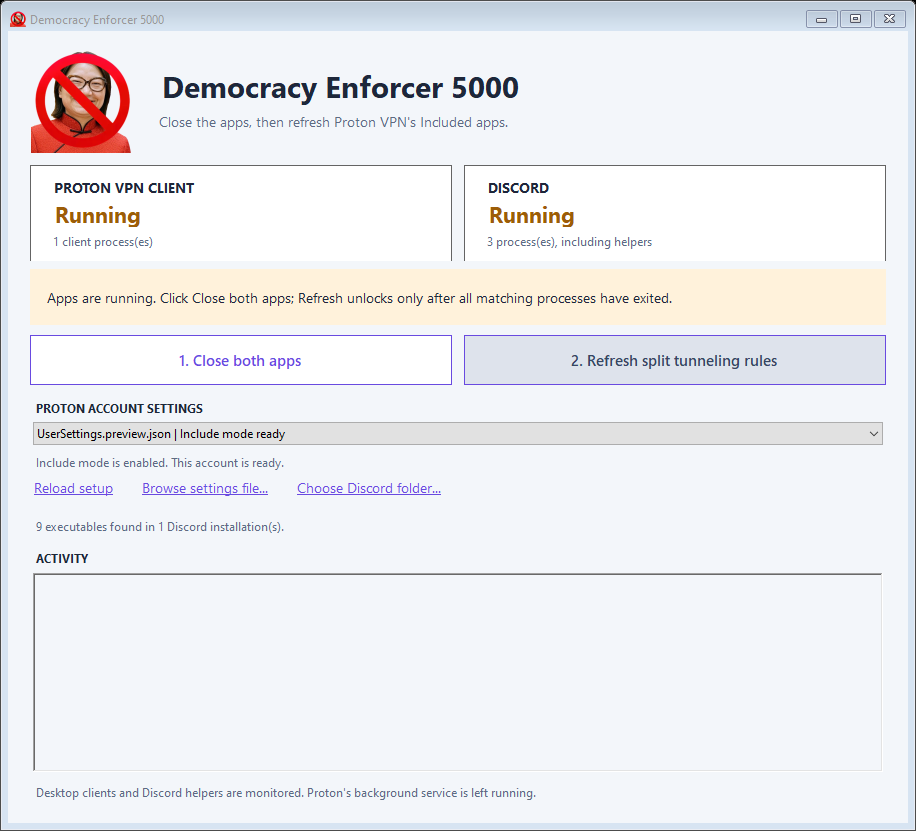
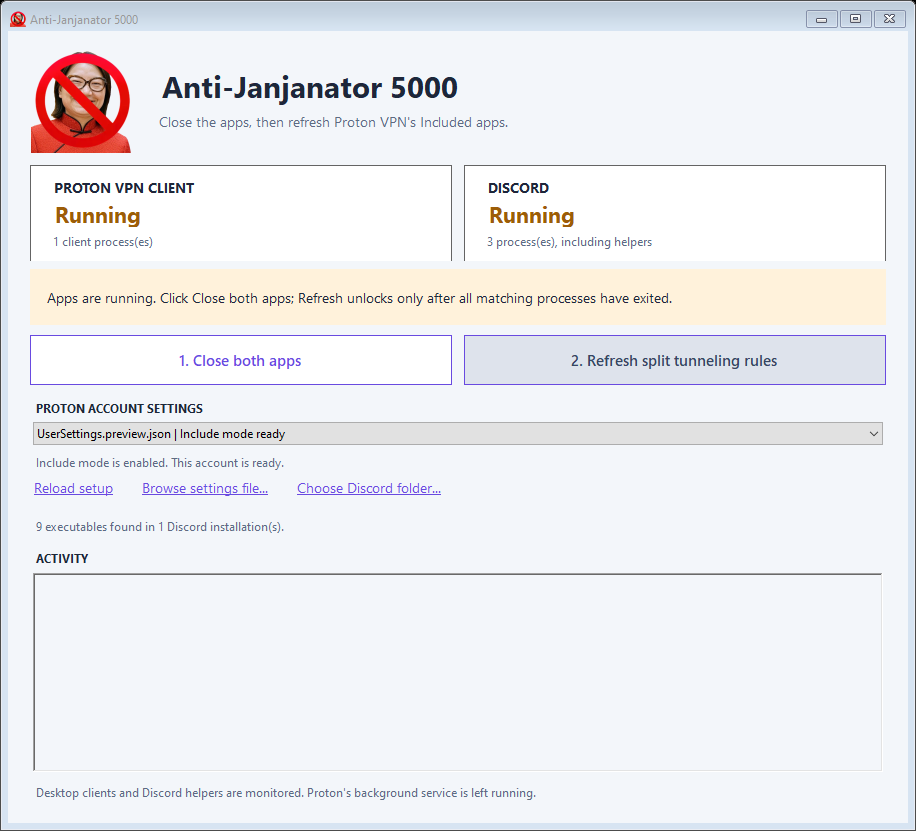
Restore the Anti-Janjanator 5000 name

Changed region(s): [[0.1834, 0.0903, 0.5808, 0.1203], [0.0306, 0.0, 0.1834, 0.0301]]

diff --git a/docs/site/index.html b/docs/site/index.html
@@ -4,21 +4,21 @@
   <meta charset="utf-8">
   <meta name="viewport" content="width=device-width, initial-scale=1">
   <meta name="theme-color" content="#f7efdf">
-  <meta name="description" content="Democracy Enforcer 5000 — a portable Windows utility that keeps Discord's executable paths current in Proton VPN's Included apps.">
+  <meta name="description" content="Anti-Janjanator 5000 — a portable Windows utility that keeps Discord's executable paths current in Proton VPN's Included apps.">
   <link rel="icon" href="assets/HeaderArtwork.png">
-  <title>Democracy Enforcer 5000 / Made with love.</title>
+  <title>Anti-Janjanator 5000 / Made with love.</title>
   <link rel="stylesheet" href="style.css">
   <script src="script.js" defer></script>
 </head>
 <body>
   <a class="skip" href="#main">Skip to content</a>
   <header class="nav wrap">
-    <a class="brand" href="#" aria-label="Democracy Enforcer 5000 home"><img class="brand-art" src="assets/HeaderArtwork.png" alt="Original application artwork"><span>DEMOCRACY ENFORCER<span class="brand-sub">5000 / NETWORK UTILITIES</span></span></a>
+    <a class="brand" href="#" aria-label="Anti-Janjanator 5000 home"><img class="brand-art" src="assets/HeaderArtwork.png" alt="Original application artwork"><span>ANTI-JANJANATOR<span class="brand-sub">5000 / NETWORK UTILITIES</span></span></a>
     <nav aria-label="Main navigation"><a href="#protocol">How it works</a><a href="#setup">Get started</a><a class="repo-link" href="https://github.com/Billy364/Anti-Janjanator-5000-repo">Source code <span aria-hidden="true">↗</span></a></nav>
   </header>
   <main id="main">
     <section id="setup" class="quick-install wrap" aria-labelledby="install-title">
-      <p class="eyebrow">GET DEMOCRACY ENFORCER 5000</p>
+      <p class="eyebrow">GET ANTI-JANJANATOR 5000</p>
       <h1 id="install-title">Open Windows PowerShell.</h1>
       <p class="install-intro">Press <kbd>Win</kbd>, type <strong>Windows PowerShell</strong>, and open it. Copy and paste this command, then press <kbd>Enter</kbd>.</p>
       <div class="build-panel">
@@ -26,7 +26,7 @@
         <pre><code id="commands">irm https://raw.githubusercontent.com/Billy364/Anti-Janjanator-5000-repo/main/install.ps1 | iex</code></pre>
         <p id="copy-status" class="copy-status" role="status" aria-live="polite"></p>
       </div>
-      <p class="install-result">This downloads and runs the setup script, clones the repo into <strong>Downloads\Democracy-Enforcer-5000</strong>, builds the app, and creates a <strong>Democracy Enforcer 5000</strong> Desktop shortcut. Click the shortcut when you’re ready to launch.</p>
+      <p class="install-result">This downloads and runs the setup script, clones the repo into <strong>Downloads\Anti-Janjanator-5000</strong>, builds the app, and creates a <strong>Anti-Janjanator 5000</strong> Desktop shortcut. Click the shortcut when you’re ready to launch.</p>
       <p class="install-requirements">Requires Git for Windows, 64-bit Windows, Windows PowerShell 5.1, and the .NET Framework 4.x compiler. No administrator window needed. <a class="text-link" href="https://github.com/Billy364/Anti-Janjanator-5000-repo/blob/main/install.ps1">Read the script ↗</a></p>
     </section>
     <section class="hero wrap">
@@ -36,11 +36,11 @@
         <p class="tagline">Because Democracy is beautiful and we should break all the rules to defend it</p>
         <p class="intro">New Discord version. New executable path. Same broken split tunneling. <strong>Put the right paths back in Proton VPN.</strong></p>
         <div class="actions"><a class="button" href="#setup">GET THE APP <span aria-hidden="true">↗</span></a><a class="text-link" href="#protocol">See how it works <span aria-hidden="true">↓</span></a></div>
-        <div class="hero-meta"><span>WINDOWS x64</span><span>PORTABLE</span><span>v13 SOURCE</span></div>
+        <div class="hero-meta"><span>WINDOWS x64</span><span>PORTABLE</span><span>v14 SOURCE</span></div>
       </div>
       <figure class="app-showcase">
-        <div class="app-label"><span class="pulse"></span> DEMOCRACY ENFORCER 5000 <span>WINDOWS / v13</span></div>
-        <a href="assets/screenshot.png" target="_blank" rel="noopener" aria-label="View full-size app screenshot"><img class="app-screenshot" src="assets/screenshot.png" alt="Democracy Enforcer 5000 Windows interface showing Proton and Discord status, Close both apps and Refresh split tunneling rules buttons, and an example Proton account." width="916" height="831"></a>
+        <div class="app-label"><span class="pulse"></span> ANTI-JANJANATOR 5000 <span>WINDOWS / v14</span></div>
+        <a href="assets/screenshot.png" target="_blank" rel="noopener" aria-label="View full-size app screenshot"><img class="app-screenshot" src="assets/screenshot.png" alt="Anti-Janjanator 5000 Windows interface showing Proton and Discord status, Close both apps and Refresh split tunneling rules buttons, and an example Proton account." width="916" height="831"></a>
         <figcaption><span>THE ACTUAL APP / EXAMPLE DATA</span><a href="assets/screenshot.png" target="_blank" rel="noopener">INSPECT FULL SIZE ↗</a></figcaption>
       </figure>
     </section>
@@ -52,6 +52,6 @@
     <section class="setup-note wrap"><span class="note-icon" aria-hidden="true">!</span><div><p class="micro">KNOW WHAT YOU’RE RUNNING</p><h3>First launch sets your Proton preferences.</h3><p>Once per Windows user, setup requests startup with Windows, auto-connect, Fastest country excluding Brazil, Proton WireGuard, and Split tunneling in Include mode. Exit Proton, select your account, then click Apply setup and open updater. Setup is required before first use and backs up changed files.</p><a class="text-link" href="https://github.com/Billy364/Anti-Janjanator-5000-repo/blob/main/docs/FIRST-LAUNCH.md">Read the first-launch details ↗</a></div></section>
     <section class="fine-print wrap"><p><span class="green">// TRANSPARENCY</span> Unofficial utility. Builds are unsigned. Synthetic tests cover settings preservation and process guards; they do not verify live VPN traffic routing. Proton controls feature availability.</p><a href="https://github.com/Billy364/Anti-Janjanator-5000-repo/blob/main/docs/USER-GUIDE.md">USER GUIDE ↗</a></section>
   </main>
-  <footer class="wrap"><a class="footer-brand" href="#">DEMOCRACY ENFORCER <span class="green">5000</span></a><span>MADE WITH LOVE. FOR DEMOCRACY.</span><a href="https://github.com/Billy364/Anti-Janjanator-5000-repo">GITHUB ↗</a></footer>
+  <footer class="wrap"><a class="footer-brand" href="#">ANTI-JANJANATOR <span class="green">5000</span></a><span>MADE WITH LOVE. FOR DEMOCRACY.</span><a href="https://github.com/Billy364/Anti-Janjanator-5000-repo">GITHUB ↗</a></footer>
 </body>
 </html>

diff --git a/tests/HeaderPreview.cs b/tests/HeaderPreview.cs
@@ -25,7 +25,7 @@ class HeaderPreview
     static Label FindHeading(Control control)
     {
         Label label = control as Label;
-        if (label != null && label.Text == "Democracy Enforcer 5000") return label;
+        if (label != null && label.Text == "Anti-Janjanator 5000") return label;
         foreach (Control child in control.Controls) { Label found = FindHeading(child); if (found != null) return found; }
         return null;
     }
@@ -45,7 +45,7 @@ class HeaderPreview
             FieldInfo field = typeof(UpdaterForm).GetField("trayIcon", BindingFlags.NonPublic | BindingFlags.Instance);
             NotifyIcon tray = (NotifyIcon)field.GetValue(form);
             if (tray == null || tray.Icon == null || !tray.Visible || tray.ContextMenuStrip.Items.Count != 3) throw new Exception("Tray icon/menu incomplete.");
-            if (form.Text != "Democracy Enforcer 5000" || tray.Text != form.Text || tray.ContextMenuStrip.Items[0].Text != "Open " + form.Text) throw new Exception("App name mismatch.");
+            if (form.Text != "Anti-Janjanator 5000" || tray.Text != form.Text || tray.ContextMenuStrip.Items[0].Text != "Open " + form.Text) throw new Exception("App name mismatch.");
             Label heading = FindHeading(form);
             if (heading == null || TextRenderer.MeasureText(heading.Text, heading.Font).Width > heading.ClientSize.Width) throw new Exception("Header name missing or clipped.");
             using (Bitmap preview = new Bitmap(form.Width, form.Height))

diff --git a/src/UpdaterWindow.cs b/src/UpdaterWindow.cs
@@ -10,17 +10,17 @@ using System.Runtime.InteropServices;
 using System.Web.Script.Serialization;
 using System.Windows.Forms;
 
-[assembly: System.Reflection.AssemblyTitle("Democracy Enforcer 5000")]
-[assembly: System.Reflection.AssemblyProduct("Democracy Enforcer 5000")]
+[assembly: System.Reflection.AssemblyTitle("Anti-Janjanator 5000")]
+[assembly: System.Reflection.AssemblyProduct("Anti-Janjanator 5000")]
 [assembly: System.Reflection.AssemblyDescription("Discord rules updater for Proton VPN split tunneling")]
-[assembly: System.Reflection.AssemblyVersion("13.0.0.0")]
-[assembly: System.Reflection.AssemblyFileVersion("13.0.0.0")]
+[assembly: System.Reflection.AssemblyVersion("14.0.0.0")]
+[assembly: System.Reflection.AssemblyFileVersion("14.0.0.0")]
 
 namespace DiscordProtonUpdater
 {
     public static class AppIdentity
     {
-        public const string Name = "Democracy Enforcer 5000";
+        public const string Name = "Anti-Janjanator 5000";
     }
 
     public sealed class AccountInfo

diff --git a/README.md b/README.md
@@ -1,9 +1,9 @@
-# Democracy Enforcer 5000
+# Anti-Janjanator 5000
 
 A portable Windows app that refreshes Discord executable paths in Proton VPN's
 Split Tunneling **Included apps** after Discord updates.
 
-![Democracy Enforcer 5000 interface with example data](docs/screenshot.png)
+![Anti-Janjanator 5000 interface with example data](docs/screenshot.png)
 
 The app monitors Discord and the Proton VPN desktop client. Use **Close both
 apps**, then **Refresh split tunneling rules** once both have exited. Select
@@ -53,13 +53,15 @@ irm https://raw.githubusercontent.com/Billy364/Anti-Janjanator-5000-repo/main/in
 ```
 
 This downloads and executes the bootstrap script. It clones into
-`Downloads\Democracy-Enforcer-5000` (using Windows' configured Downloads folder), builds using Windows
-PowerShell 5.1 and .NET Framework, and creates **Democracy Enforcer 5000** on your Desktop (including a redirected/OneDrive Desktop). Open the
+`Downloads\Anti-Janjanator-5000` (using Windows' configured Downloads folder), builds using Windows
+PowerShell 5.1 and .NET Framework, and creates **Anti-Janjanator 5000** on your Desktop (including a redirected/OneDrive Desktop). Open the
 shortcut to launch the EXE when ready. The bootstrap does not launch the app,
 modify Proton settings, request administrator access, or change machine-wide
 execution policy. First launch of the app still performs the setup described above.
 
-Rerunning fast-forwards a clean installation checkout and rebuilds it; local
+Rerunning fast-forwards a clean installation checkout and rebuilds it. If the
+previously named Downloads checkout is the only one present, the installer
+updates it in place and creates the renamed Desktop shortcut. Local
 changes, a different origin/branch, or divergent history stop the update.
 Close a running copy before rebuilding. Git and the .NET compiler must already
 be installed; the bootstrap does not install prerequisites.
@@ -79,9 +81,9 @@ From Windows PowerShell in this repository:
 powershell.exe -NoProfile -ExecutionPolicy Bypass -File .\build.ps1
 ```
 
-Open `dist\Democracy-Enforcer-5000\Democracy Enforcer 5000.exe`. Keep the generated
+Open `dist\Anti-Janjanator-5000\Anti-Janjanator 5000.exe`. Keep the generated
 folder together: the two PowerShell workers are needed at runtime. The build
-also creates `dist\Democracy-Enforcer-5000-v13.zip` for sharing. Builds are unsigned.
+also creates `dist\Anti-Janjanator-5000-v14.zip` for sharing. Builds are unsigned.
 
 ## Verify
 

diff --git a/AGENTS.md b/AGENTS.md
@@ -1,6 +1,6 @@
 # Agent instructions
 
-These instructions apply to the entire Democracy Enforcer 5000 repository.
+These instructions apply to the entire Anti-Janjanator 5000 repository.
 Read [README.md](README.md), [the user guide](docs/USER-GUIDE.md), and
 [validation notes](docs/VALIDATION.md) before changing app behavior.
 
@@ -9,8 +9,8 @@ Read [README.md](README.md), [the user guide](docs/USER-GUIDE.md), and
 Use Git from a parent directory where a new checkout can be created:
 
 ```powershell
-git clone https://github.com/Billy364/Anti-Janjanator-5000-repo.git Democracy-Enforcer-5000
-Set-Location .\Democracy-Enforcer-5000
+git clone https://github.com/Billy364/Anti-Janjanator-5000-repo.git Anti-Janjanator-5000
+Set-Location .\Anti-Janjanator-5000
 git status --short
 ```
 
@@ -57,13 +57,13 @@ if ($LASTEXITCODE -ne 0) { throw 'Build failed.' }
 
 The script compiles the C# interface for x64, embeds the header artwork and ICO,
 copies the required workers and documentation, and creates a portable ZIP.
-For the current v13 source, outputs are:
+For the current v14 source, outputs are:
 
-- `dist\Democracy-Enforcer-5000\Democracy Enforcer 5000.exe`
-- `dist\Democracy-Enforcer-5000\Open Democracy Enforcer 5000.cmd`
-- `dist\Democracy-Enforcer-5000\UpdaterWorker.ps1`
-- `dist\Democracy-Enforcer-5000\Update-DiscordRules.ps1`
-- `dist\Democracy-Enforcer-5000-v13.zip`
+- `dist\Anti-Janjanator-5000\Anti-Janjanator 5000.exe`
+- `dist\Anti-Janjanator-5000\Open Anti-Janjanator 5000.cmd`
+- `dist\Anti-Janjanator-5000\UpdaterWorker.ps1`
+- `dist\Anti-Janjanator-5000\Update-DiscordRules.ps1`
+- `dist\Anti-Janjanator-5000-v14.zip`
 
 Distribute the generated ZIP or the entire app folder, not just the EXE: the
 PowerShell workers must stay beside it. The build is unsigned. The
@@ -73,7 +73,7 @@ change machine-wide execution policy as part of the build.
 To try the app, only when requested, open the EXE from the generated folder.
 Building and testing do not require closing the user's real Discord or Proton
 apps. If compilation cannot overwrite its output EXE, close that running copy
-of Democracy Enforcer 5000 before rebuilding.
+of Anti-Janjanator 5000 before rebuilding.
 
 ## Verify changes
 

diff --git a/docs/USER-GUIDE.md b/docs/USER-GUIDE.md
@@ -1,13 +1,13 @@
-# Democracy Enforcer 5000
+# Anti-Janjanator 5000
 
-Open **Democracy Enforcer 5000.exe**, or double-click **Open Democracy Enforcer 5000.cmd**. Extract
+Open **Anti-Janjanator 5000.exe**, or double-click **Open Anti-Janjanator 5000.cmd**. Extract
 the ZIP first and keep all files together. This is a portable 64-bit Windows
 desktop app; no installer is needed. The C# and PowerShell source is included.
 The executable is locally built and unsigned.
 
 The supplied artwork is embedded in the header and used for the application,
 title-bar, and system-tray icon. Double-click the tray icon, or right-click it
-and choose **Open Democracy Enforcer 5000**, to bring the window back. **Exit** closes the
+and choose **Open Anti-Janjanator 5000**, to bring the window back. **Exit** closes the
 updater; an operation already in progress must finish first. The tray icon is
 removed when the updater exits.
 

diff --git a/docs/TROUBLESHOOTING.md b/docs/TROUBLESHOOTING.md
@@ -11,7 +11,7 @@ Version 9 and later recognize those omitted defaults.
 A missing enabled flag means off; a missing mode means Standard/Exclude. These
 defaults are defined in [Proton's official source](https://github.com/ProtonVPN/win-app/blob/d2a4f8bc92a0fd296943a7cdd15f4f870c8a87f9/src/Client/Settings/ProtonVPN.Client.Settings.Contracts/DefaultSettings.cs).
 
-1. Close the previous updater and extract the complete v13 ZIP into a new folder.
+1. Close the previous updater and extract the complete v14 ZIP into a new folder.
 2. Run the EXE. If setup is pending, exit Proton from its tray, select the intended
    account, then click **Apply setup and open updater** when it unlocks. Setup
    must finish; Exit/X closes the program, and errors must be resolved/retried.

diff --git a/docs/VALIDATION.md b/docs/VALIDATION.md
@@ -1,4 +1,8 @@
-# Interface validation — November 6, 2026
+# Interface validation — November 7, 2026
+
+V14 restores the Anti-Janjanator 5000 name. The complete regression runner
+passed. The header and tray checks verified the restored name, and the main
+and setup windows were visually checked with fixture data.
 
 V13 adds a 10-second post-refresh delay before automatic Proton launch. Worker
 tests verify that saved activation/rules precede the wait, both changed and

diff --git a/CHANGELOG.md b/CHANGELOG.md
@@ -1,5 +1,12 @@
 # Changelog
 
+## v14
+
+- Restored the Anti-Janjanator 5000 name in the executable, Windows metadata,
+  title bar, interface heading, setup window, and tray.
+- Updated the portable package, launcher, installer shortcut, and website
+  to use the restored name.
+
 ## v13
 
 - Wait 10 seconds after saving or confirming the rules before automatically
